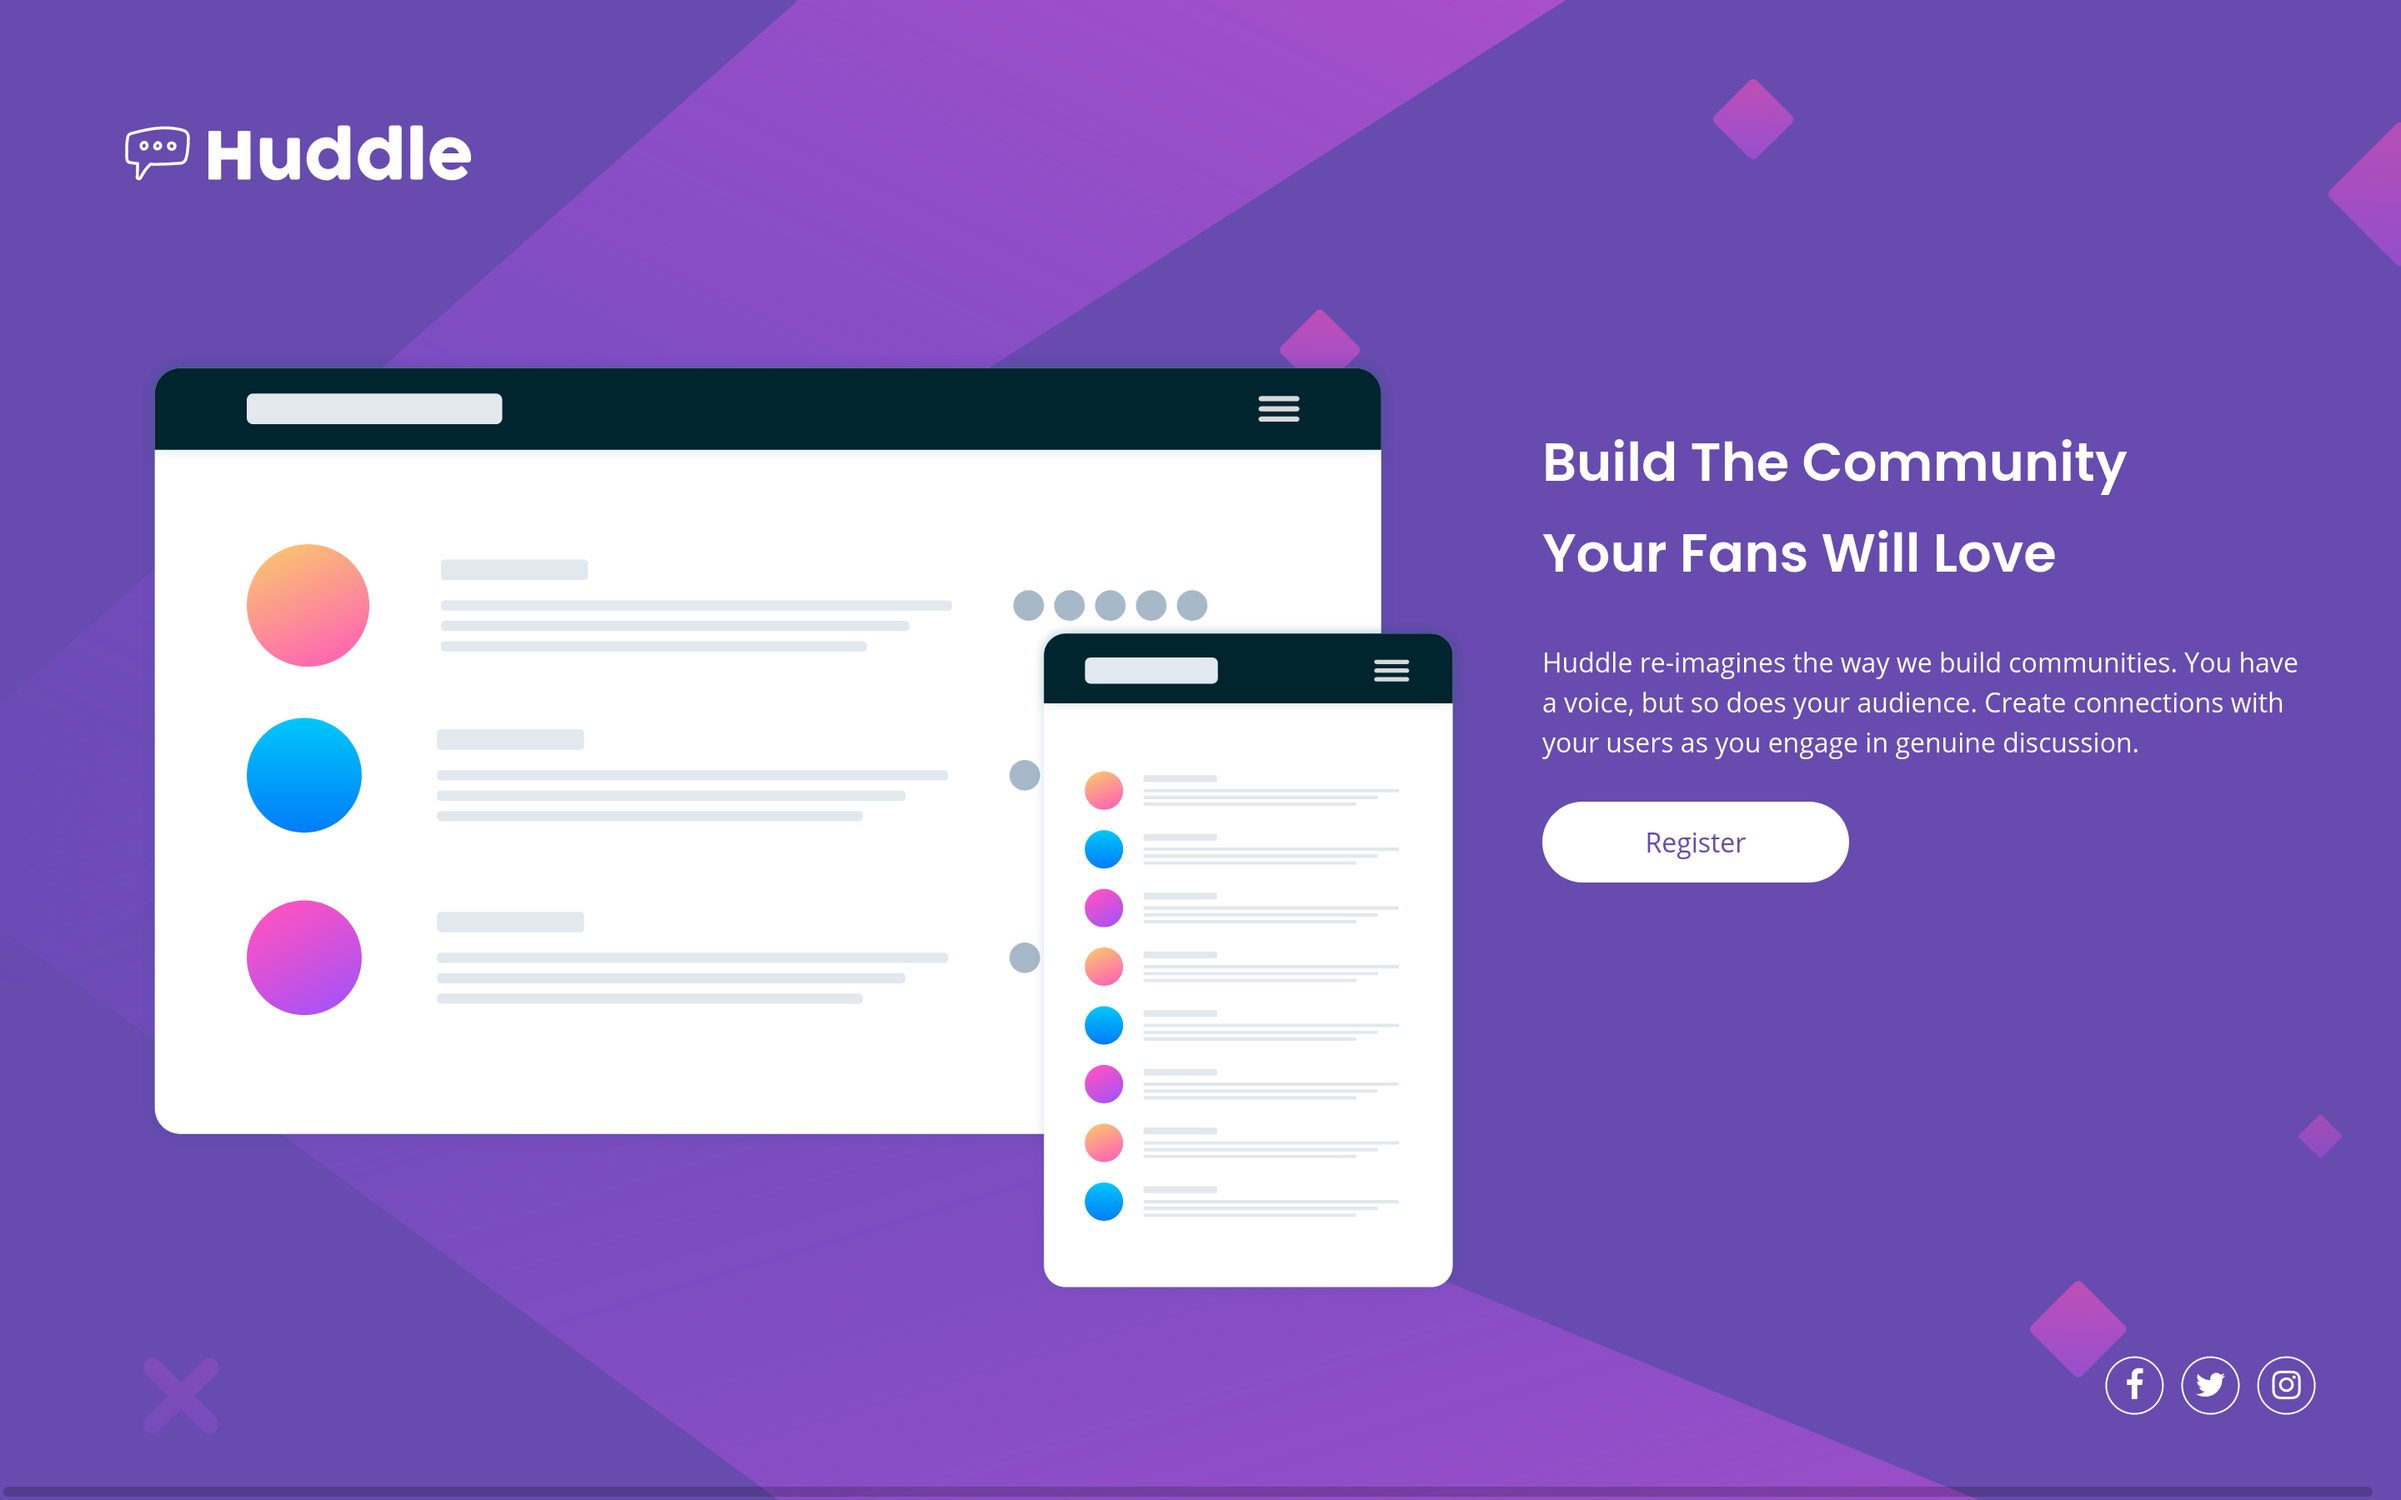
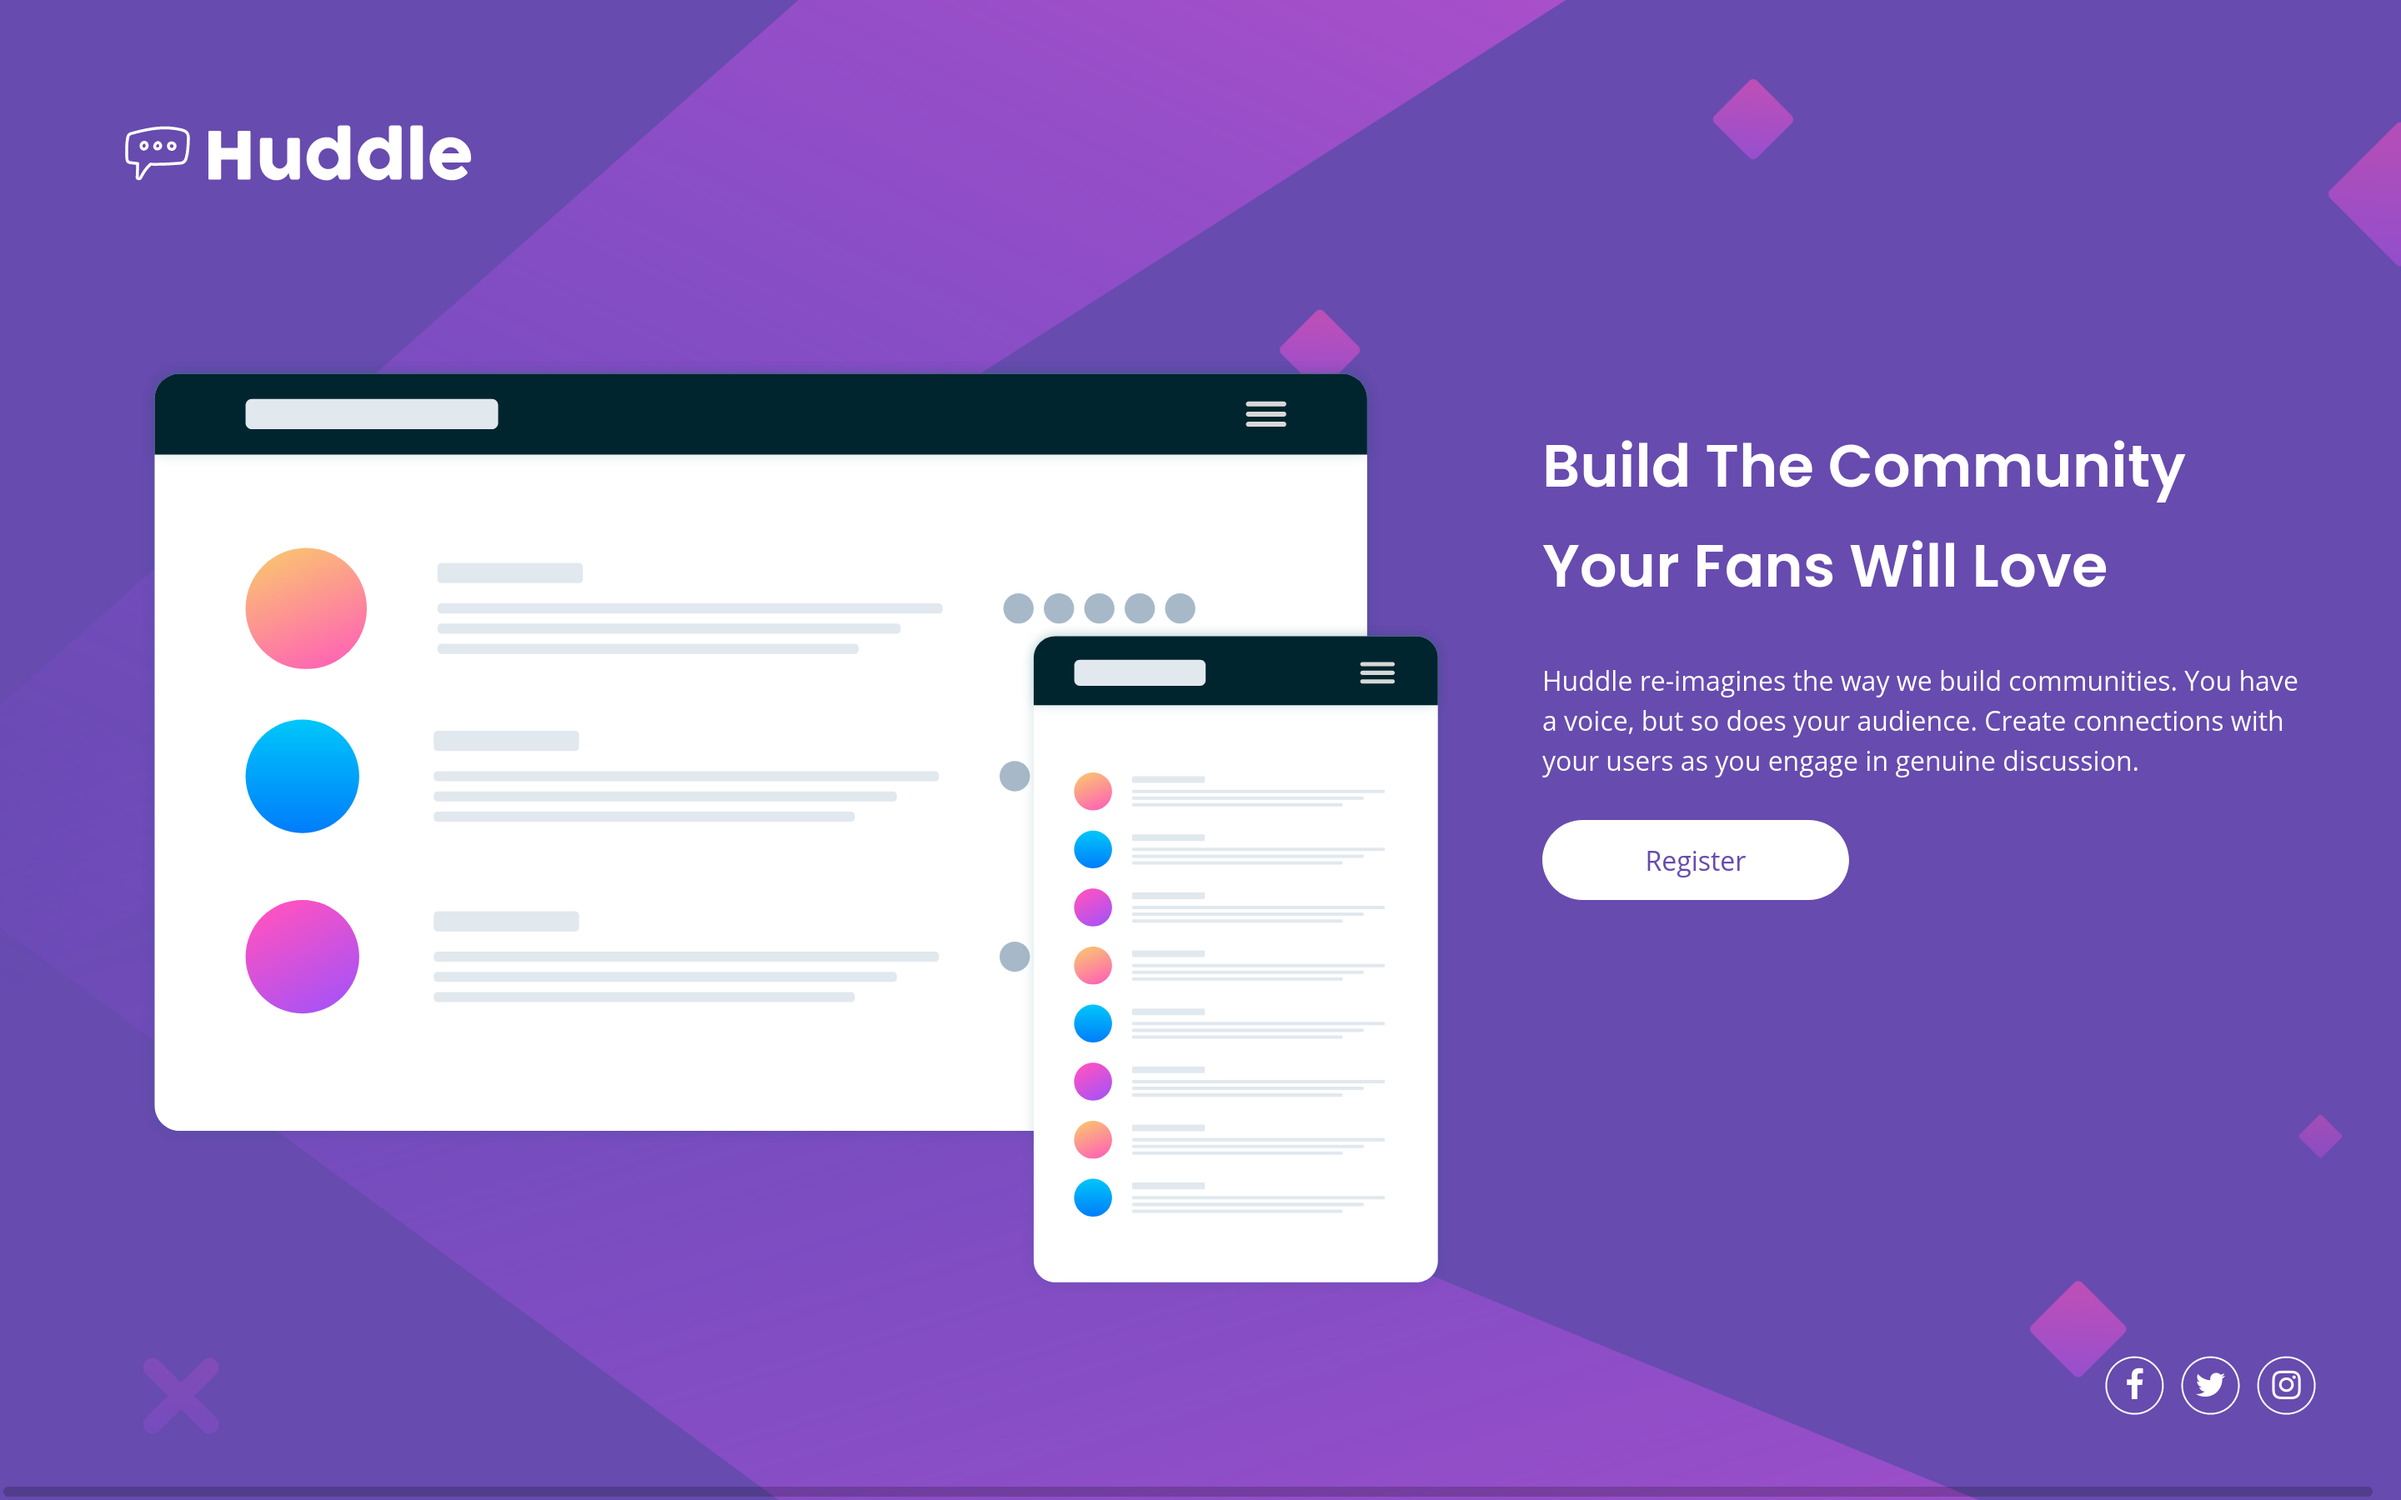
changes in style.css and index.html

diff --git a/huddle-landing-page-challenge8/css/style.css b/huddle-landing-page-challenge8/css/style.css
@@ -7,8 +7,8 @@
   padding: 0;
   box-sizing: border-box;
 }
-body,
-html {
+html,
+body {
     min-height: 100%;
 }
 body {
@@ -22,11 +22,11 @@ body {
   color: #fff;
 }
 
-h3 {
+h2 {
   font-family: 'Poppins', sans-serif;
   font-weight: 600;
   font-size: 150%;
-  margin-bottom: 5%;
+  margin-bottom: 2rem;
 }
 
 span {
@@ -43,6 +43,7 @@ main {
 }
 
 ul {
+  text-align: center;
   padding: 0;
 }
 
@@ -50,7 +51,8 @@ li {
   width: 30px;
   height: 30px;
   display: inline-block;
-  margin: 0 1% 5%;
+  margin: 0 4px 30px;
+  text-align: center;
   border: solid 1.8px #fff;
   border-radius: 50%;
   font-size: 16px;
@@ -62,6 +64,7 @@ li:hover {
   border: solid 2px hsl(300, 69%, 71%);
 }
 
+
 /*******************************Class Selector*********************************/
 /* Logo */
 .logo {
@@ -71,13 +74,14 @@ li:hover {
 
 /* huddle mockup imaghe */
 .mockup-image {
-  width: 80%;
+  padding:0 9.5%;
   margin-bottom: 4rem;
 }
 
 /* Huddle Content */
 .huddle-content {
   text-align: center;
+
 }
 
 .btn {
@@ -99,20 +103,24 @@ li:hover {
 
 /*********************************Media Query Desktop *************************/
 @media screen and (min-width: 992px) {
+  html,
+  body {
+      min-height: 100%;
+  }
   body {
     background-image: url("../images/bg-desktop.svg");
     background-size: cover;
   }
-  h3 {
-    font-size: 200%;
-    line-height:1.7;
+  h2 {
+    font-size: 2.5rem;
+    line-height:1.5;
 
   }
   main {
     margin-top:6%;
   }
   p {
-    width: 88%;
+    width: 29rem;
     margin: 0;
   }
 
@@ -138,12 +146,12 @@ li:hover {
 
   .huddle-content {
     text-align: left;
-    padding: 3% 0 0 14%;
+    padding: 3rem 0 0 10rem;
   }
-
   .mockup-image {
-    width: 112%;
-    margin:1% 0 0 12%;
+    padding: 0;
+    margin: 0.5rem 0 0 8rem;
+    width:60rem;
   }
   .btn {
     width: 11.5rem;

diff --git a/huddle-landing-page-challenge8/index.html b/huddle-landing-page-challenge8/index.html
@@ -21,15 +21,15 @@
 
 <body>
   <header>
-    <img class="logo" src="./images/logo.svg" alt="">
+    <img class="logo img-fluid" src="./images/logo.svg" alt="">
   </header>
   <main>
     <div class="row">
-      <div class="col-lg-6 text-center">
-        <img class="mockup-image" src="./images/illustration-mockups.svg" alt="">
+      <div class="col-lg-6 text-center ">
+        <img class="mockup-image img-fluid" src="./images/illustration-mockups.svg" alt="">
       </div>
       <div class="col-lg-6 huddle-content">
-        <h3>Build The Community <span>Your Fans Will Love</span></h3>
+        <h2>Build The Community <span>Your Fans Will Love</span></h2>
 
         <p>Huddle re-imagines the way we build communities. You have a voice, but so does your audience.
           Create connections with your users as you engage in genuine discussion.</p>
@@ -37,16 +37,20 @@
         <a class="btn" href="#">Register</a>
 
 
-          <ul class="wrapper">
-            <li class="facebook"><i class="fa fa-facebook fa-1x" aria-hidden="true"></i></li>
-            <li class="twitter"><i class="fa fa-twitter fa-1x" aria-hidden="true"></i></li>
-            <li class="instagram"><i class="fa fa-instagram fa-1x" aria-hidden="true"></i></li>
-          </ul>
-
 
       </div>
     </div>
   </main>
+  <footer>
+    <ul>
+      <li class="facebook"><i class="fa fa-facebook fa-1x" aria-hidden="true"></i></li>
+      <li class="twitter"><i class="fa fa-twitter fa-1x" aria-hidden="true"></i></li>
+      <li class="instagram"><i class="fa fa-instagram fa-1x" aria-hidden="true"></i></li>
+    </ul>
+
+
+  </footer>
+
 
 
 </body>
